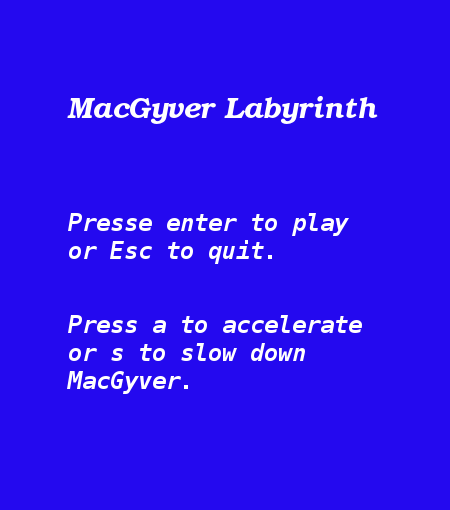
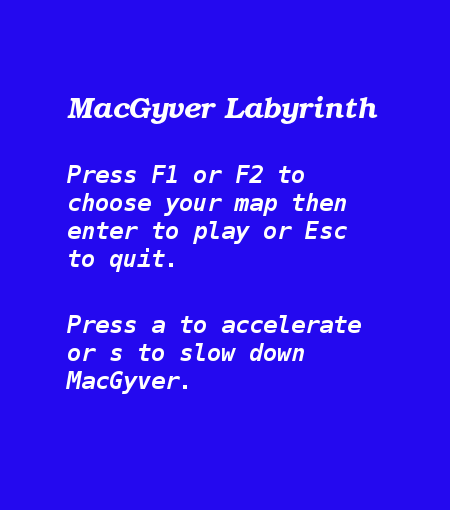
Add levels selection with F1 and F2 keys

diff --git a/play.py b/play.py
@@ -32,7 +32,29 @@ while game:
     home.show(window)
     pygame.display.flip()
 
-    maze1 = Map(MAP1)
+    over = True
+    win = True
+    lose = False
+    selected = False
+    
+    while home_page:
+        
+        for event in pygame.event.get():
+            if event.type == QUIT or event.type == KEYDOWN and event.key == K_ESCAPE:
+                game = False
+                home_page = False
+            if event.type == KEYDOWN:
+                if event.key == K_RETURN or event.key == K_KP_ENTER:
+                    if selected == True:
+                        home_page = False
+                        playing = True
+                if event.key == K_F1:
+                    selected = True
+                    maze1 = Map(MAP1)
+                elif event.key == K_F2:
+                    selected = True
+                    maze1 = Map(MAP2)
+                                
     maze1.game_info(window, "Picked up tools:")
     guard = Warden(WARDEN_IMAGE)
     guard.position(14, 14)
@@ -48,20 +70,6 @@ while game:
 
     grabbed_tools = []
 
-    over = True
-    win = True
-    lose = False
-
-    while home_page:
-        for event in pygame.event.get():
-            if event.type == QUIT or event.type == KEYDOWN and event.key == K_ESCAPE:
-                game = False
-                home_page = False
-            if event.type == KEYDOWN:
-                if event.key == K_RETURN or event.key == K_KP_ENTER:
-                    playing = True
-                    home_page = False
-        
     while playing:
         for event in pygame.event.get():
 
